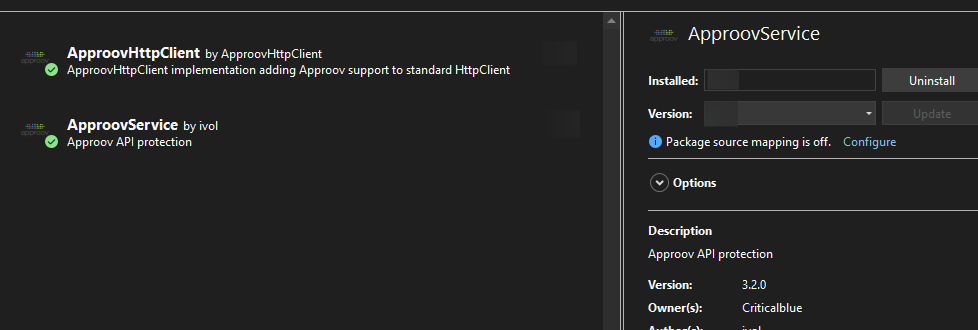
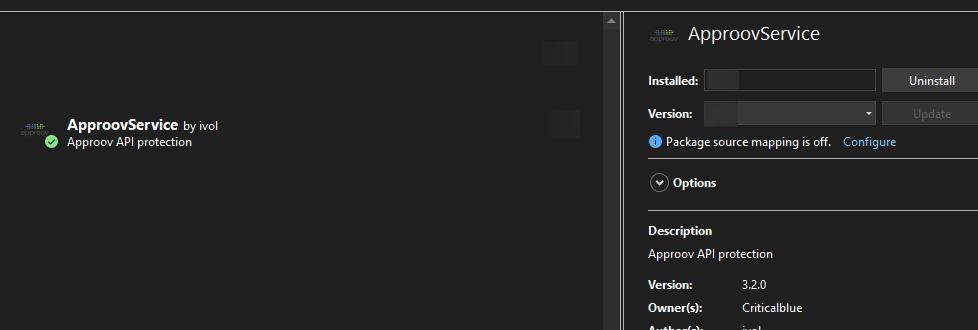
Add warning how to obtain packages

Changed region(s): [[0.0307, 0.1212, 0.5215, 0.2424]]

diff --git a/README.md b/README.md
@@ -1,5 +1,10 @@
 # APPROOV QUICKSTART: MAUI HTTPCLIENT
 
+```
+Updated version of this package exist supporting NET7 and NET8. Unfortunately, the nuget.exe command lacks support for usb and cloud based hardware crypto modules and we are unable to provide the signed packages. Please contact support@approov.io for more information.
+Please, check https://github.com/NuGet/Home/issues/11948 for updated info. 
+```
+
 This quickstart is written specifically for mobile iOS and Android apps that are written in C# and .NET for making the API calls that you wish to protect with Approov. The sample code shown in this guide makes use of HttpClient in order to access network resources. If this is not your situation then check if there is a more relevant quickstart guide available.
 
 This page provides all the steps for integrating Approov into your app. Additionally, a step-by-step tutorial guide using our [Shapes App Example](https://github.com/approov/quickstart-maui-httpclient/blob/master/SHAPES-EXAMPLE.md) is also available.
@@ -8,11 +13,11 @@ To follow this guide you should have received an onboarding email for a trial or
 
 Note that the minimum OS requirement for iOS is 11 and for Android the minimum SDK version is 21 (Android 5.0). You cannot use Approov in apps that need to support OS versions older than this.
 
-We will use the latest versions of the `nuget.org` packages, `ApproovService-3.2.0` and `ApproovHttpClient-3.2.0`.
+We will use the latest versions of the `nuget.org` package `ApproovService-3.2.0`.
 
 ## ADDING THE APPROOV SERVICE PACKAGE
 
-The Approov SDK makes use of a custom `HttpClient` implementation, `ApproovHttpClient` and it is available as a NuGet package in the default repository `nuget.org`. The `ApproovHttpClient` includes platform specific code in the `ApproovService` class. The `ShapesApp` project require the `ApproovService` package in order to use the Approov enabled service. Select `Project` and `Manage NuGet Packages...` then select `Browse` and search for the `ApproovService` package.
+The Approov SDK makes use of a custom `HttpClient` implementation, `ApproovHttpClient` and it includes platform specific code in the `ApproovService` class. The `ShapesApp` project require the `ApproovService` package in order to use the Approov enabled service. Select `Project` and `Manage NuGet Packages...` then select `Browse` and search for the `ApproovService` package.
 
 ![Add ApproovSDK Package](readme-images/add-nuget-packages.png)
 
